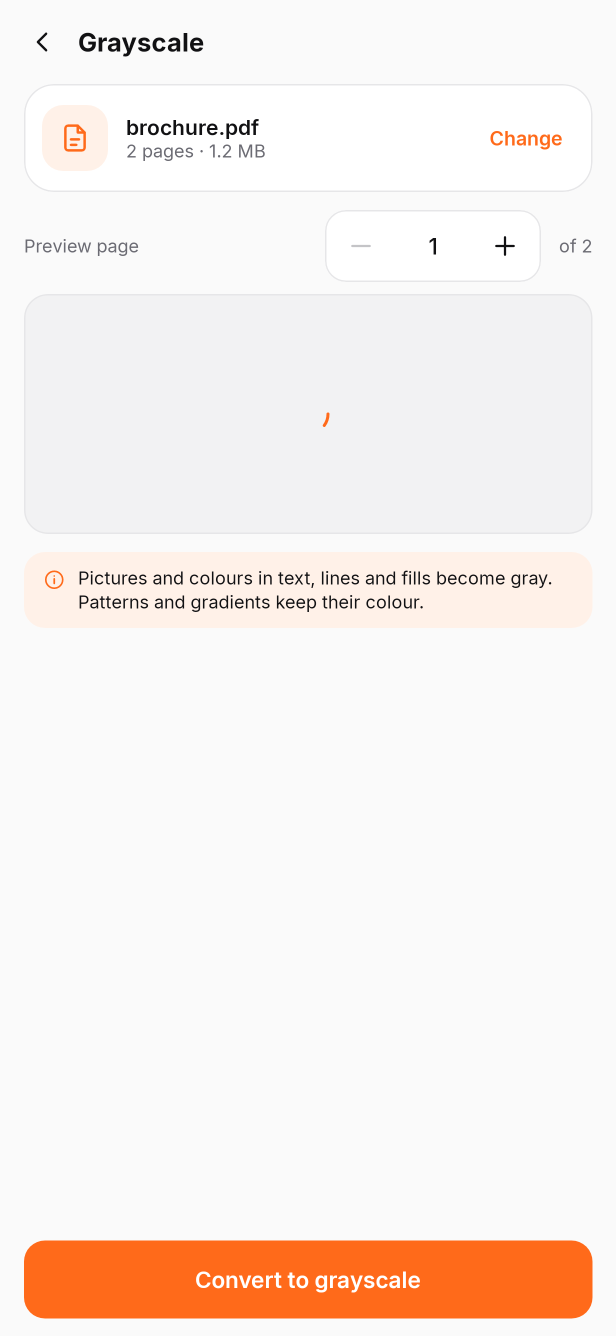
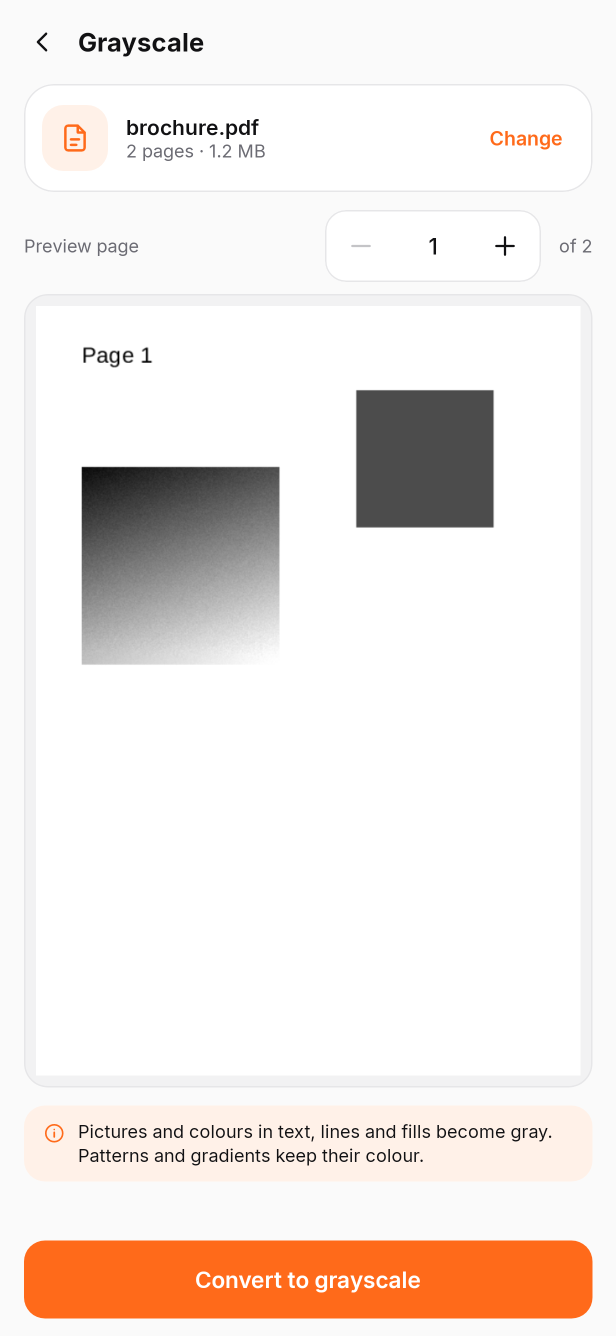
Chunk B: Compose smoke tests per screen, preview height cap, screenshots
Claude-Session: https://claude.ai/code/session_01QtjDEfUSeiytvFedJK5fax

diff --git a/app/src/test/java/com/namanbansal/forge/ui/ChunkBScreensTest.kt b/app/src/test/java/com/namanbansal/forge/ui/ChunkBScreensTest.kt
@@ -1,0 +1,131 @@
+package com.namanbansal.forge.ui
+
+import android.app.Application
+import android.net.Uri
+import android.os.Looper
+import androidx.compose.runtime.Composable
+import androidx.compose.ui.test.assertIsEnabled
+import androidx.compose.ui.test.assertIsNotEnabled
+import androidx.compose.ui.test.junit4.createComposeRule
+import androidx.compose.ui.test.onNodeWithText
+import androidx.compose.ui.test.onAllNodesWithText
+import androidx.compose.ui.test.onLast
+import androidx.test.core.app.ApplicationProvider
+import com.namanbansal.forge.core.ImageFixtures
+import com.namanbansal.forge.core.PdfBoxRasterizer
+import com.namanbansal.forge.core.PdfFixtures
+import com.namanbansal.forge.tools.ToolHost
+import com.namanbansal.forge.tools.ToolRegistry
+import com.namanbansal.forge.tools.ToolScreens
+import com.namanbansal.forge.tools.ToolStatus
+import com.namanbansal.forge.ui.theme.ForgeTheme
+import com.tom_roush.pdfbox.android.PDFBoxResourceLoader
+import org.junit.After
+import org.junit.Assert.assertEquals
+import org.junit.Assert.assertTrue
+import org.junit.Before
+import org.junit.Rule
+import org.junit.Test
+import org.junit.rules.TemporaryFolder
+import org.junit.runner.RunWith
+import org.robolectric.RobolectricTestRunner
+import org.robolectric.Shadows.shadowOf
+import org.robolectric.annotation.GraphicsMode
+
+/**
+ * Compose smoke test for every Chunk B screen, built through the same path as the nav graph (no view model argument, so
+ * `viewModel()` must construct it): it shows its picker, and once a PDF is open its primary action appears.
+ */
+@RunWith(RobolectricTestRunner::class)
+@GraphicsMode(GraphicsMode.Mode.NATIVE)
+class ChunkBScreensTest {
+    @get:Rule val compose = createComposeRule()
+    @get:Rule val tmp = TemporaryFolder()
+    private val app: Application get() = ApplicationProvider.getApplicationContext()
+
+    @Before fun init() { PDFBoxResourceLoader.init(app); PdfBoxRasterizer.install() }
+    @After fun done() { PdfBoxRasterizer.uninstall() }
+
+    private class Spec(val code: String, val pick: String, val action: String, val enabled: Boolean = true)
+
+    // code, picker headline, primary button, whether the button is enabled right after picking
+    private val specs = listOf(
+        Spec("P9", "Choose a PDF to compress", "Compress"), Spec("P10", "Choose a PDF to convert", "Convert to grayscale"),
+        Spec("P11", "Choose a PDF to flatten", "Flatten", enabled = false), // a plain PDF has nothing to flatten
+        Spec("P12", "Choose a damaged PDF to repair", "Repair"), Spec("P13", "Choose a PDF to clean", "Remove selected", enabled = false),
+        Spec("P14", "Choose a PDF to optimise", "Optimise"), Spec("P20", "Choose a PDF to watermark", "Add watermark"),
+        Spec("P21", "Choose a PDF to number", "Add to PDF"), Spec("P22", "Choose a PDF to edit bookmarks", "Save bookmarks"),
+        Spec("P23", "Choose a PDF to edit", "Save"), Spec("P24", "Choose a PDF to edit links", "Save links", enabled = false),
+        Spec("P29", "Choose a PDF to protect", "Protect", enabled = false), Spec("P7", "Choose a PDF to crop", "Crop", enabled = false),
+        Spec("P8", "Choose a PDF to arrange", "Combine pages"), Spec("P31", "Choose a PDF to convert", "Save 3 images"),
+    )
+
+    private fun pump(until: () -> Boolean) {
+        val end = System.currentTimeMillis() + 30_000
+        while (!until() && System.currentTimeMillis() < end) { shadowOf(Looper.getMainLooper()).idleFor(java.time.Duration.ofMillis(100)); compose.waitForIdle(); Thread.sleep(20) }
+        assertTrue("condition not reached in time", until())
+    }
+
+    private fun content(code: String): @Composable () -> Unit {
+        val screen = ToolScreens.screens.getValue(code)
+        val host = ToolHost(ToolRegistry.get(code)!!, onBack = {})
+        return { ForgeTheme { screen(host) } }
+    }
+
+    @Test fun everyChunkBToolIsAvailableAndRouted() {
+        val codes = listOf("P7", "P8", "P9", "P10", "P11", "P12", "P13", "P14", "P20", "P21", "P22", "P23", "P24", "P29", "P30", "P31", "P32")
+        for (c in codes) {
+            assertEquals("$c status", ToolStatus.Available, ToolRegistry.get(c)!!.status)
+            assertTrue("$c screen", ToolScreens.screens.containsKey(c))
+        }
+        // they all accept PDFs (images for P32), so the grid, the viewer's More menu and share-in offer them
+        for (c in codes - "P32") assertTrue("$c accepts pdf", ToolRegistry.get(c)!!.accepts.contains(com.namanbansal.forge.core.FileKind.PDF))
+        assertTrue(ToolRegistry.get("P32")!!.accepts.contains(com.namanbansal.forge.core.FileKind.IMAGE))
+        val offered = ToolRegistry.availableFor(setOf(com.namanbansal.forge.core.FileKind.PDF)).map { it.code }
+        assertTrue(offered.containsAll(codes - "P32"))
+    }
+
+    @Test fun compressShowsItsPickerThroughTheDefaultFactory() {
+        compose.setContent(content("P9"))
+        compose.onNodeWithText("Choose a PDF to compress").assertExists()
+    }
+
+    private fun picked(spec: Spec) {
+        val pdf = PdfFixtures.withText(tmp.newFile("${spec.code}-x.pdf"), 3, uniqueHeights = false)
+        val app = this.app as com.namanbansal.forge.ForgeApp
+        app.pendingFiles.put(spec.code, listOf(com.namanbansal.forge.core.PickedFile(Uri.fromFile(pdf), pdf.name, pdf.length(), "application/pdf")))
+        compose.setContent(content(spec.code))
+        // the title can read like the button ("Repair"), so take the last match: the button sits below the title
+        fun button() = compose.onAllNodesWithText(spec.action).onLast()
+        pump { runCatching { button().assertExists() }.isSuccess }
+        if (spec.enabled) pump { runCatching { button().assertIsEnabled() }.isSuccess } else button().assertIsNotEnabled()
+    }
+
+    @Test fun compress() = picked(specs.first { it.code == "P9" })
+    @Test fun grayscale() = picked(specs.first { it.code == "P10" })
+    @Test fun flatten() = picked(specs.first { it.code == "P11" })
+    @Test fun repair() = picked(specs.first { it.code == "P12" })
+    @Test fun sanitise() = picked(specs.first { it.code == "P13" })
+    @Test fun optimise() = picked(specs.first { it.code == "P14" })
+    @Test fun watermark() = picked(specs.first { it.code == "P20" })
+    @Test fun pageNumbers() = picked(specs.first { it.code == "P21" })
+    @Test fun bookmarks() = picked(specs.first { it.code == "P22" })
+    @Test fun metadata() = picked(specs.first { it.code == "P23" })
+    @Test fun links() = picked(specs.first { it.code == "P24" })
+    @Test fun protect() = picked(specs.first { it.code == "P29" })
+    @Test fun crop() = picked(specs.first { it.code == "P7" })
+    @Test fun booklet() = picked(specs.first { it.code == "P8" })
+    @Test fun pdfToImages() = picked(specs.first { it.code == "P31" })
+
+    @Test fun unlockExplainsWhenThereIsNothingToRemove() {
+        val pdf = PdfFixtures.withText(tmp.newFile("plain.pdf"), 2)
+        (app as com.namanbansal.forge.ForgeApp).pendingFiles.put("P30", listOf(com.namanbansal.forge.core.PickedFile(Uri.fromFile(pdf), "plain.pdf", pdf.length(), "application/pdf")))
+        compose.setContent(content("P30"))
+        pump { runCatching { compose.onNodeWithText("This PDF has no password and no restrictions, so there is nothing to remove.").assertExists() }.isSuccess }
+    }
+
+    @Test fun imagesToPdfShowsItsPicker() {
+        compose.setContent(content("P32"))
+        compose.onNodeWithText("Choose pictures to turn into a PDF").assertExists()
+    }
+}

diff --git a/app/src/test/java/com/namanbansal/forge/screenshots/ChunkBScreenshotTest.kt b/app/src/test/java/com/namanbansal/forge/screenshots/ChunkBScreenshotTest.kt
@@ -81,7 +81,13 @@ class ChunkBScreenshotTest {
     private fun picked(f: File, size: Long = f.length(), mime: String = "application/pdf") = PickedFile(Uri.fromFile(f), f.name, size, mime)
     private fun text(name: String, pages: Int = 8, size: Long = 2_400_000, pw: String? = null, body: (Int) -> List<String> = { listOf("Quarterly report line one", "Totals and figures", "Signed and approved") }) =
         picked(PdfFixtures.withText(File(tmp.root, name), pages, uniqueHeights = false, userPassword = pw, body = body), size)
-    private fun settle() { repeat(8) { Thread.sleep(250); compose.waitForIdle() } }
+    private fun settle() {
+        repeat(10) {
+            compose.mainClock.advanceTimeBy(300)
+            org.robolectric.Shadows.shadowOf(android.os.Looper.getMainLooper()).idleFor(java.time.Duration.ofMillis(300))
+            Thread.sleep(150); compose.waitForIdle()
+        }
+    }
 
     private fun <V : com.namanbansal.forge.core.pdf.PdfToolViewModel> ready(vm: V, f: PickedFile): V {
         vm.onFilesPicked(listOf(f))
@@ -92,7 +98,8 @@ class ChunkBScreenshotTest {
     @Test fun compress() {
         val vm = ready(CompressViewModel(app, SavedStateHandle()), picked(ImageFixtures.imagePdf(File(tmp.root, "scan_pack.pdf"), pages = 4, px = 1100)))
         vm.setPreset(1)
-        compose.pumpUntil { vm.estimate.value is CompressViewModel.Est.Ready }
+        val end = System.currentTimeMillis() + 60_000
+        while (vm.estimate.value !is CompressViewModel.Est.Ready && System.currentTimeMillis() < end) { org.robolectric.Shadows.shadowOf(android.os.Looper.getMainLooper()).idleFor(java.time.Duration.ofMillis(200)); Thread.sleep(30) }
         compose.shootBoth("p9-compress", settle = ::settle) { CompressScreen(host("P9"), vm) }
     }
 

diff --git a/app/src/main/java/com/namanbansal/forge/ui/toolkit/PdfToolScreen.kt b/app/src/main/java/com/namanbansal/forge/ui/toolkit/PdfToolScreen.kt
@@ -116,7 +116,7 @@ fun LivePreview(
     ) {
         val img = image
         if (img != null) {
-            Image(img, description, Modifier.fillMaxWidth().padding(8.dp), contentScale = ContentScale.FillWidth)
+            Image(img, description, Modifier.fillMaxWidth().heightIn(max = 340.dp).padding(8.dp), contentScale = ContentScale.Fit)
             if (!done) CircularProgressIndicator(Modifier.size(24.dp), strokeWidth = 2.dp, color = c.accent)
         } else if (!done) CircularProgressIndicator(Modifier.size(28.dp), strokeWidth = 2.dp, color = c.accent)
         else Text(emptyText, style = ForgeType.Small, color = c.text2, modifier = Modifier.padding(24.dp))
